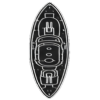
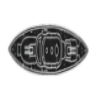
feat: add listeners for rotate buttons
- add transitions for the rotating actiont too.

diff --git a/src/templates/index.html b/src/templates/index.html
@@ -27,13 +27,13 @@
       </div>
     </div>
 
-    <img src="../images/ship2-menu.png" alt="" class="menu__image" style="margin-right: 10px;">
+    <img src="../images/ship2-menu.png" alt="" class="menu__image" style="margin-right: 10px;"> -->
 
-  </div> -->
+  </div>
 
   <div id="place-ships" class="screen active">
     <div class="ships-to-place">
-      <div class="ship boat-ship">
+      <div class="ship boat-ship" data-ship-direction="horizontal" data-ship-length="1">
 
         <div class="ship__details">
           <p class="ship__name">Patrol Boat</p>
@@ -43,7 +43,7 @@
 
       </div>
 
-      <div class="ship submarine-ship">
+      <div class="ship submarine-ship" data-ship-direction="horizontal" data-ship-length="2">
 
         <div class="ship__details">
           <p class="ship__name">Submarine</p>
@@ -54,7 +54,7 @@
 
       </div>
 
-      <div class="ship destroyer-ship">
+      <div class="ship destroyer-ship" data-ship-direction="horizontal" data-ship-length="3">
 
         <div class="ship__details">
           <p class="ship__name">Destroyer</p>
@@ -65,7 +65,7 @@
 
       </div>
 
-      <div class="ship battleship-ship">
+      <div class="ship battleship-ship" data-ship-direction="horizontal" data-ship-length="4">
 
         <div class="ship__details">
           <p class="ship__name">Battleship</p>
@@ -76,7 +76,7 @@
 
       </div>
 
-      <div class="ship carrier-ship">
+      <div class="ship carrier-ship" data-ship-direction="horizontal" data-ship-length="5">
 
         <div class="ship__details">
           <p class="ship__name">Aircraft Carrier</p>
@@ -97,12 +97,12 @@
       </div>
       <div class="place-more">
         <ul class="place-notes">
-          <li class="note">You can rotate ships after placing them by clicking on the placed ship.</li>
           <li class="note">Many players avoid the center — placing ships near the middle can trick them.</li>
           <li class="note">Don’t make patterns (like lines or corners); randomness is your friend.</li>
         </ul>
         <button class="start-game-btn"> Start Battle</button>
         <button class="random-place-btn">Auto place ships</button>
+        <button class="reset-board">Reset</button>
       </div>
     </div>
 

diff --git a/src/styles/style.css b/src/styles/style.css
@@ -168,7 +168,7 @@ html, body {
 }
 
 .boat {
-  width: 50px;
+  width: 40px;
 }
 
 .submarine-ship {
@@ -177,7 +177,7 @@ html, body {
 }
 
 .submarine {
-  width: 100px;
+  width: 80px;
 }
 
 .destroyer-ship {
@@ -185,11 +185,11 @@ html, body {
 }
 
 .destroyer {
-  width: 150px;
+  width: 130px;
 }
 
 .battleship {
-  width: 200px;
+  width: 170px;
 }
 
 .carrier-ship {
@@ -259,6 +259,7 @@ html, body {
 
 .note {
   margin-bottom: 15px;
+  margin-right: 20px;
 }
 
 .start-game-btn {
@@ -303,6 +304,26 @@ html, body {
   background-color: #464646;
 }
 
+.ship__img { 
+  transition: transform 0.4s ease-in-out;
+}
+
+.rotate.submarine {
+  transform: rotate(90deg) translateX(15px);
+}
+
+.rotate.destroyer {
+  transform: rotate(90deg) translateX(40px);
+}
+
+.rotate.battleship {
+  transform: rotate(90deg) translateX(60px) translateY(35px);
+}
+
+.rotate.carrier {
+  transform: rotate(90deg) translateX(-100px) translateY(-150px);
+}
+
 /* --- smaller screen style --- */
 
 @media (max-width: 1150px) {
@@ -320,4 +341,25 @@ html, body {
   .board-header {
     font-size: 1.4rem;
   }
+
+  .boat {
+    width: 25px;
+  }
+    
+  .submarine {
+    width: 60px;
+  }
+    
+  .destroyer {
+    width: 80px;
+  }
+  
+  .battleship {
+    width: 110px;
+  }
+    
+  .carrier {
+    width: 140px;
+  }
+  
 }

diff --git a/src/scripts/placeShips.js b/src/scripts/placeShips.js
@@ -1,5 +1,5 @@
 export function createBoard() {
-  const board = document.querySelector(".placing-board");
+  const board = document.querySelector('.placing-board');
 
   for (let i = 0; i < 100; i++) {
     const cell = document.createElement('div');
@@ -18,4 +18,18 @@ export function showBoard() {
     await new Promise(r => setTimeout(r, 500)); 
     resolve();
   })
+}
+
+export function initPlaceScreen() {
+    const shipsWindow = document.querySelector('.ships-to-place');
+
+    shipsWindow.addEventListener('click', (event) => {
+      if (event.target.classList.contains('ship__rotate')) {
+        const ship = event.target.closest('.ship')
+        const shipImg = ship.querySelector('.ship__img');
+
+        shipImg.classList.toggle('rotate');
+        ship.dataset.shipDirection = ship.dataset.shipDirection === 'horizontal'? 'vertical' : 'horizontal';
+      }
+    })
 }

diff --git a/src/scripts/index.js b/src/scripts/index.js
@@ -5,12 +5,13 @@ import Player from './player.js'
 import GameFlow from './gameFlow.js'
 import showSplash from "./splash.js";
 import showMenu from './menu.js'
-import { createBoard, showBoard } from './placeShips.js'
+import { createBoard, showBoard, initPlaceScreen } from './placeShips.js'
 
 document.addEventListener("DOMContentLoaded", async () => {
-  await showSplash();
-  await showMenu();
-  await showBoard();
+  // await showSplash();
+  // await showMenu();
+  // await showBoard();
+  initPlaceScreen();
   createBoard();
 })
 
